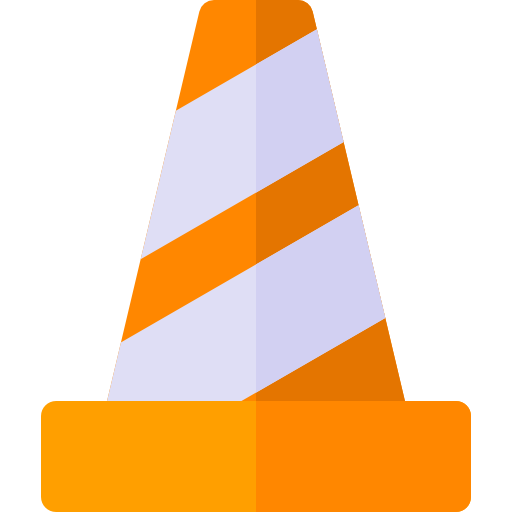
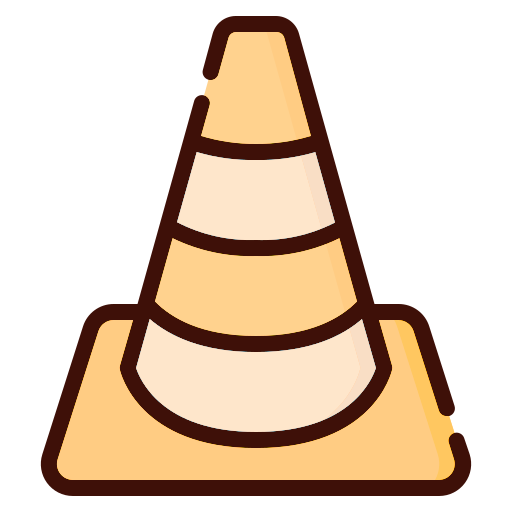
Updated graphics on obstacles, refactored high score in the Game class

diff --git a/garbage.py b/garbage.py
@@ -15,16 +15,16 @@ class Garbage(pygame.sprite.Sprite):
         return [pygame.image.load('assets/obstacles/' + fn) for fn in filenames]
 
 class BioGarbage(Garbage):
-    filenames = ['banana peel.png', 'milk carton.png', 'box.png', 'Leaves.png', 'Poop.png', 
-                'Log.png', 'Book.png', 'Apple.png', 'Meat.png', 'Fishbone.png']
+    filenames = ['banana.png', 'milk carton.png', 'box.png', 'leaf.png', 'poop.png', 
+                'log.png', 'book.png', 'apple.png', 'meat.png', 'fish bone.png']
     
     @classmethod
     def get_images(cls):
         return cls.load_images(cls.filenames)
 
 class NonBioGarbage(Garbage):
-    filenames = ['plastic bag.png', 'soda bottle.png', 'water bottle.png', 'Battery.png', 
-                'Lightbulb.png', 'Phone.png', 'Laptop.png', 'Can.png', 'Soda.png', 'Glass.png']
+    filenames = ['plastic bag.png', 'coke.png', 'bottle.png', 'battery.png', 
+                'light bulb.png', 'phone.png', 'laptop.png', 'can.png', 'soda.png', 'flask.png']
     
     @classmethod
     def get_images(cls):
